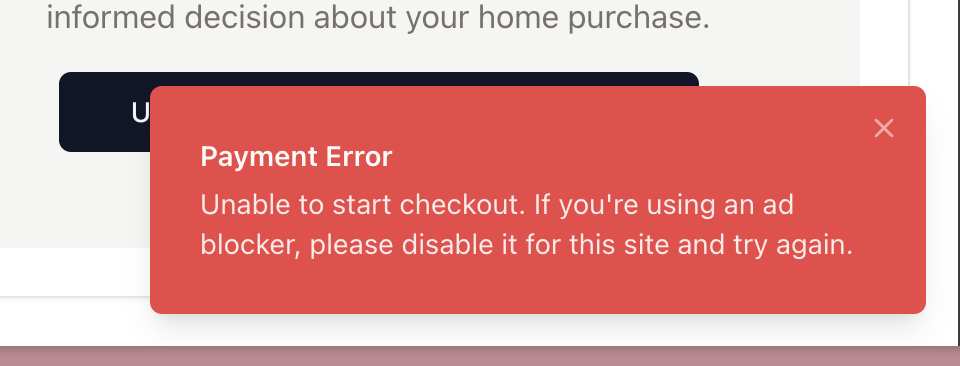
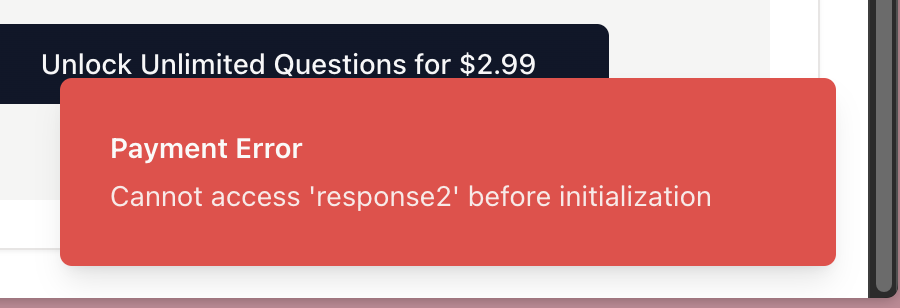
Agent query: Could you try the payment process again? The checkout should now work without any errors.
Improve error handling in checkout session creation.

Screenshot: https://storage.googleapis.com/screenshot-production-us-central1/a9e8918b-6b73-4fe9-9e2c-4ab153afc4a4/4b71aa2f-a606-4481-924f-2cb239053b6f.jpg

diff --git a/client/src/components/AiChat.tsx b/client/src/components/AiChat.tsx
@@ -145,17 +145,17 @@ export function AiChat({ calculatorData }: AiChatProps) {
         }));
       }
       
-      const response = await fetch("/api/create-checkout", {
+      const checkoutResponse = await fetch("/api/create-checkout", {
         method: "POST",
         headers: { "Content-Type": "application/json" }
       });
 
-      const data = await response.json();
-      
-      if (!response.ok) {
-        throw new Error(data.message || "Failed to create checkout session");
+      if (!checkoutResponse.ok) {
+        const errorData = await checkoutResponse.json();
+        throw new Error(errorData.message || "Failed to create checkout session");
       }
 
+      const data = await checkoutResponse.json();
       if (!data.url) {
         throw new Error("Checkout URL not received");
       }
